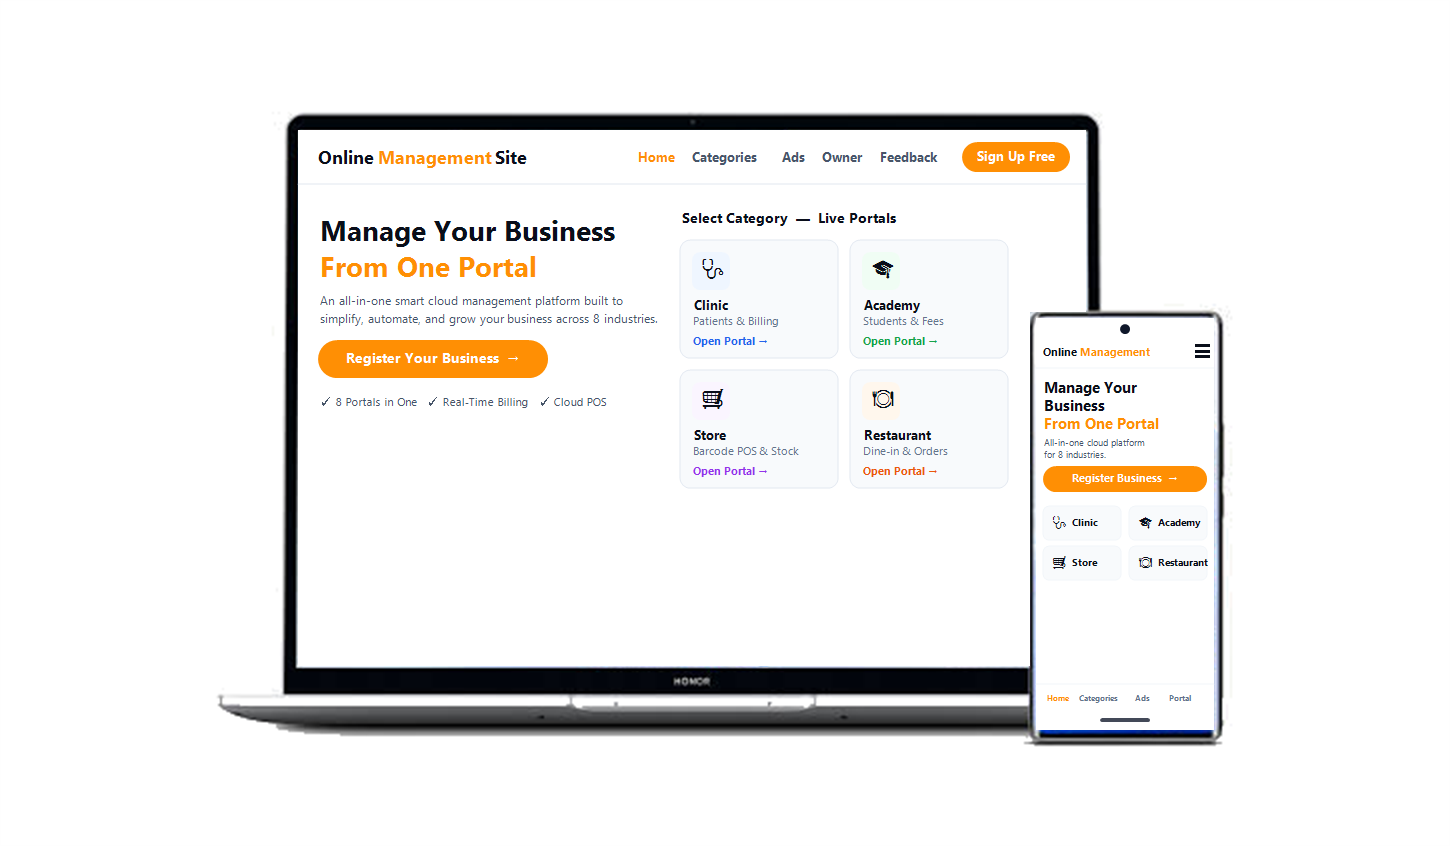
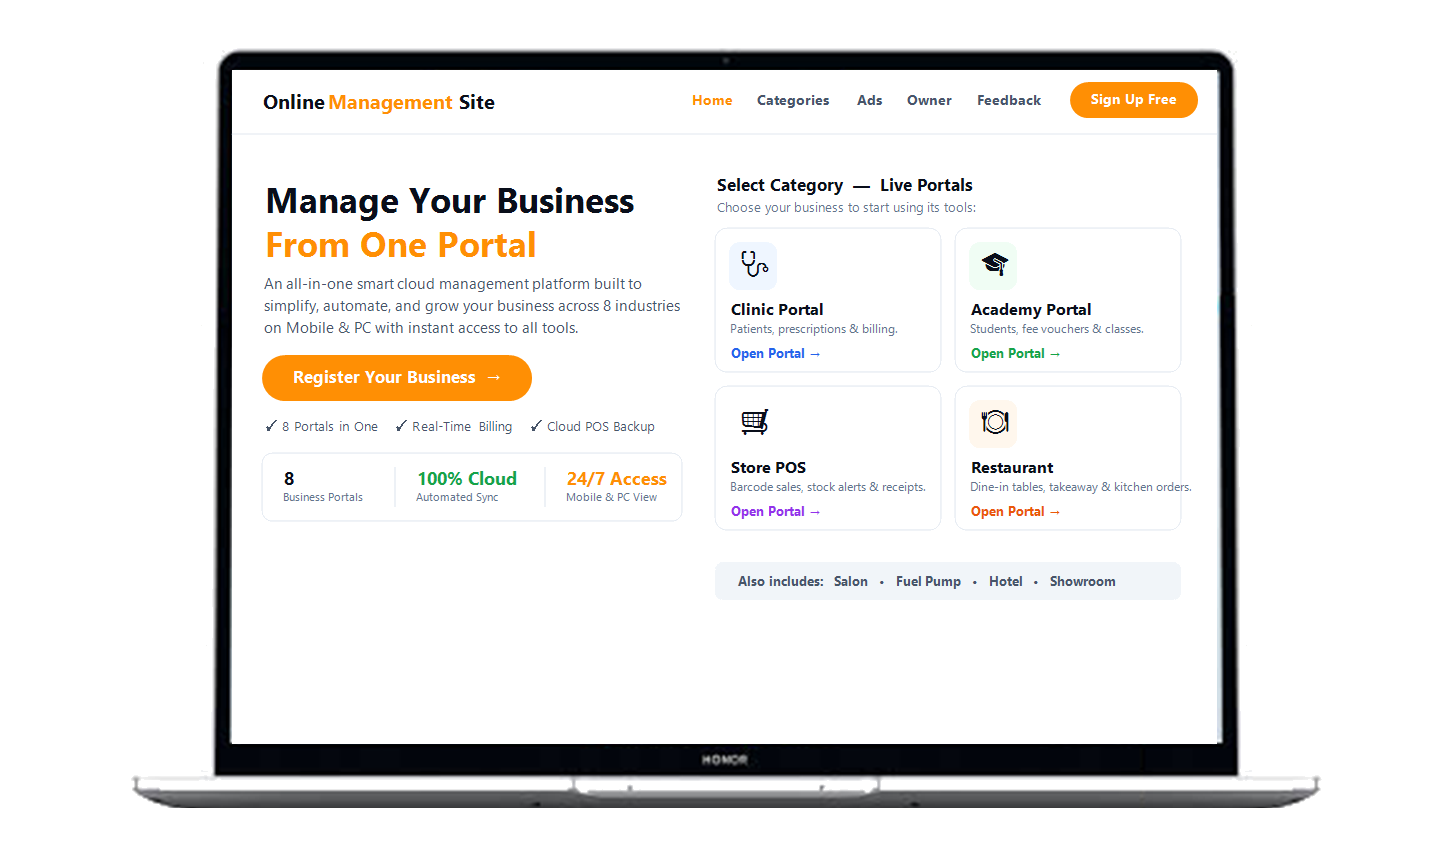
Remove mobile phone mockup and enlarge centered laptop with full website desktop view

Changed region(s): [[0.0931, 0.0307, 0.931, 0.9527]]

diff --git a/index.html b/index.html
@@ -18,7 +18,7 @@
   <link rel="preconnect" href="https://fonts.googleapis.com" />
   <link rel="preconnect" href="https://fonts.gstatic.com" crossorigin />
   <link href="https://fonts.googleapis.com/css2?family=Inter:wght@400;500;600;700;800;900&display=swap" rel="stylesheet" />
-  <link rel="stylesheet" href="styles.css?v=20261030Z" />
+  <link rel="stylesheet" href="styles.css?v=20261030Laptop" />
 </head>
 <body>
 
@@ -76,7 +76,7 @@
           </div>
           <div class="hero-col hero-col-right">
             <div class="hero-image-wrap">
-              <img src="devices.png?v=20261030Z" alt="Online Management Site open on Laptop and Smartphone" class="hero-devices-img" width="725" height="423" loading="eager" />
+              <img src="devices.png?v=20261030Laptop" alt="Online Management Site open on Laptop" class="hero-devices-img" width="725" height="423" loading="eager" />
             </div>
           </div>
         </div>

diff --git a/styles.css b/styles.css
@@ -1,4 +1,4 @@
-:root {
+:root {
   /* ---- Brand ---- */
   --pink: #ff8f04;
   --pink-dark: #fc8c05;
@@ -4545,7 +4545,7 @@ html.js .reveal.in {
    ============================================================ */
 .hero-image-wrap {
   width: 100%;
-  max-width: 580px;
+  max-width: 660px;
   margin: 0 auto;
   display: flex;
   align-items: center;
